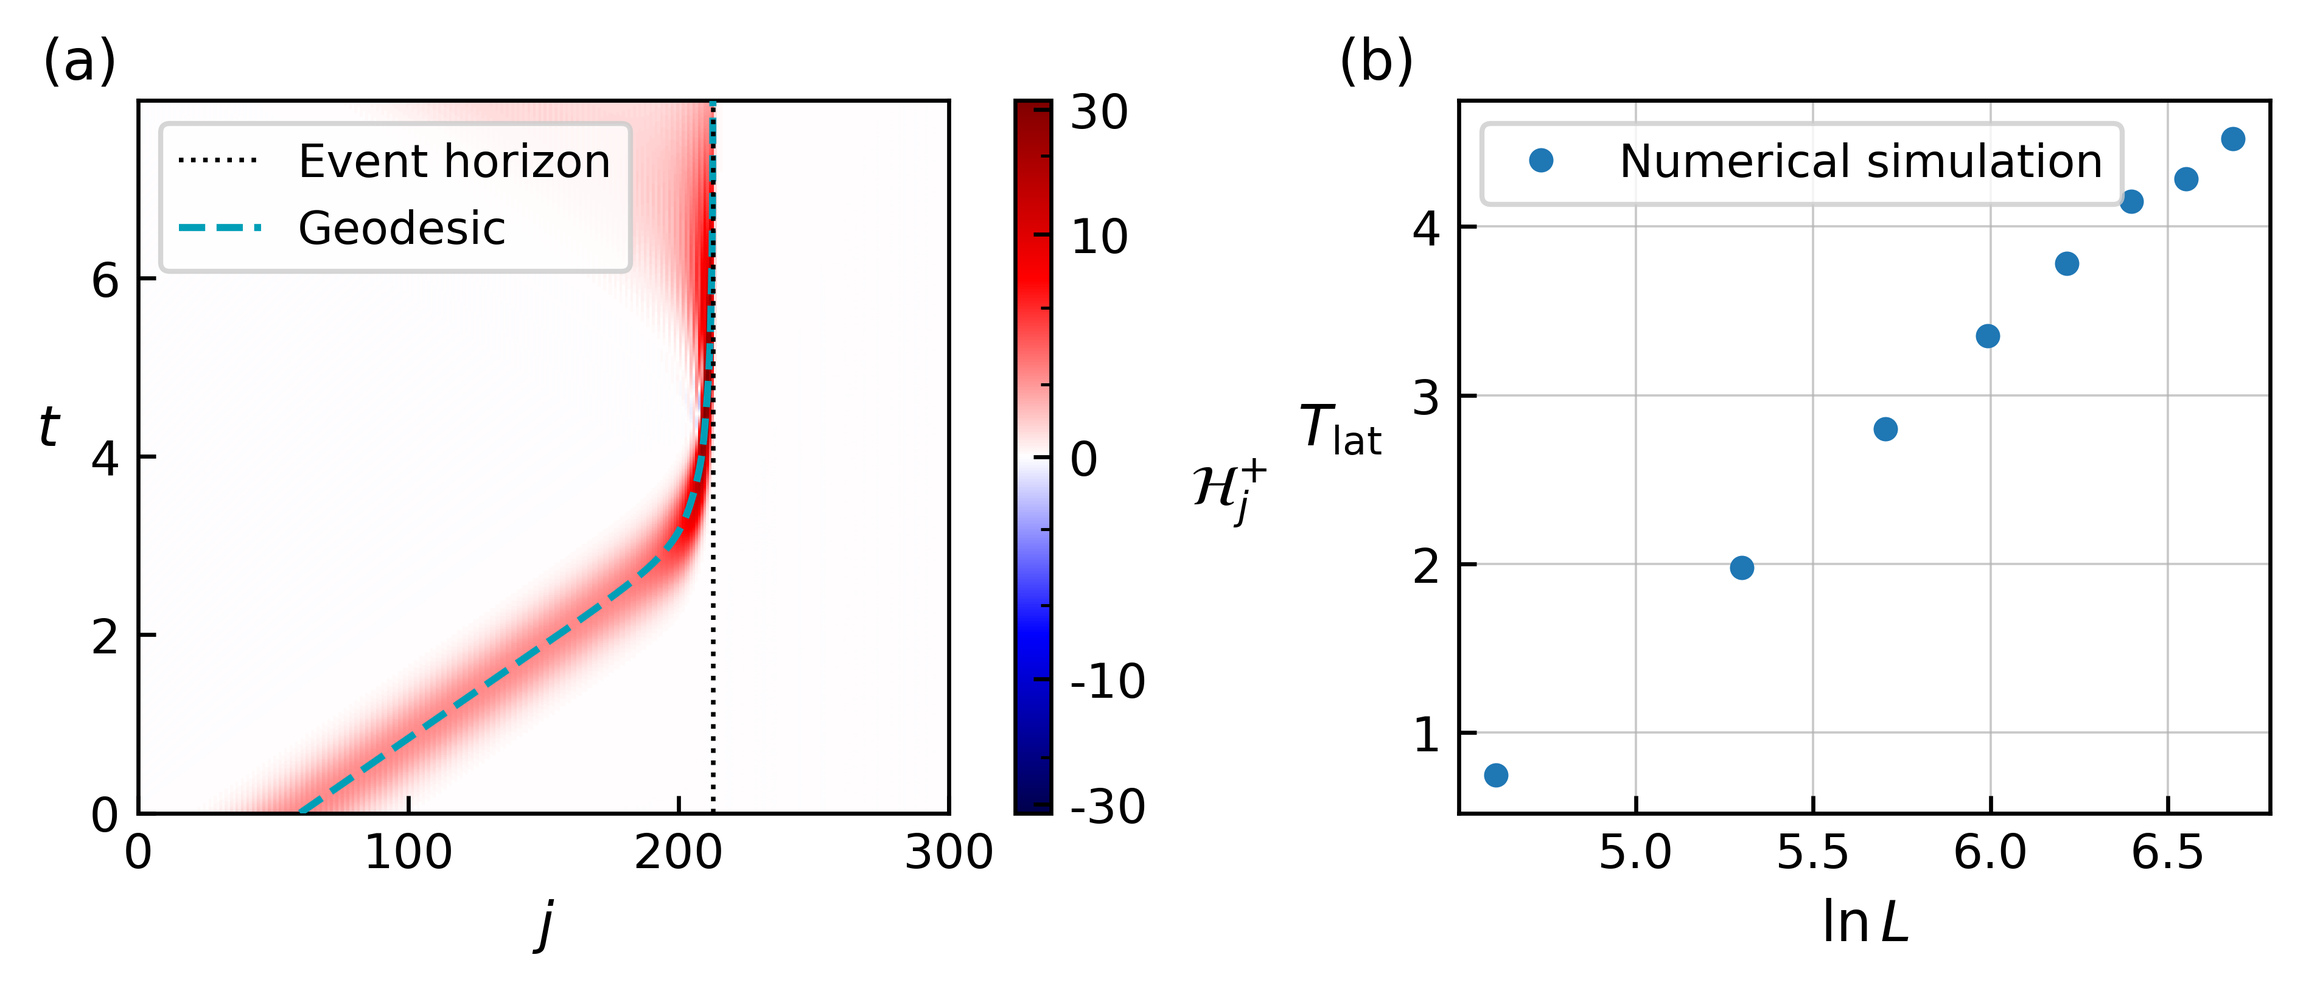
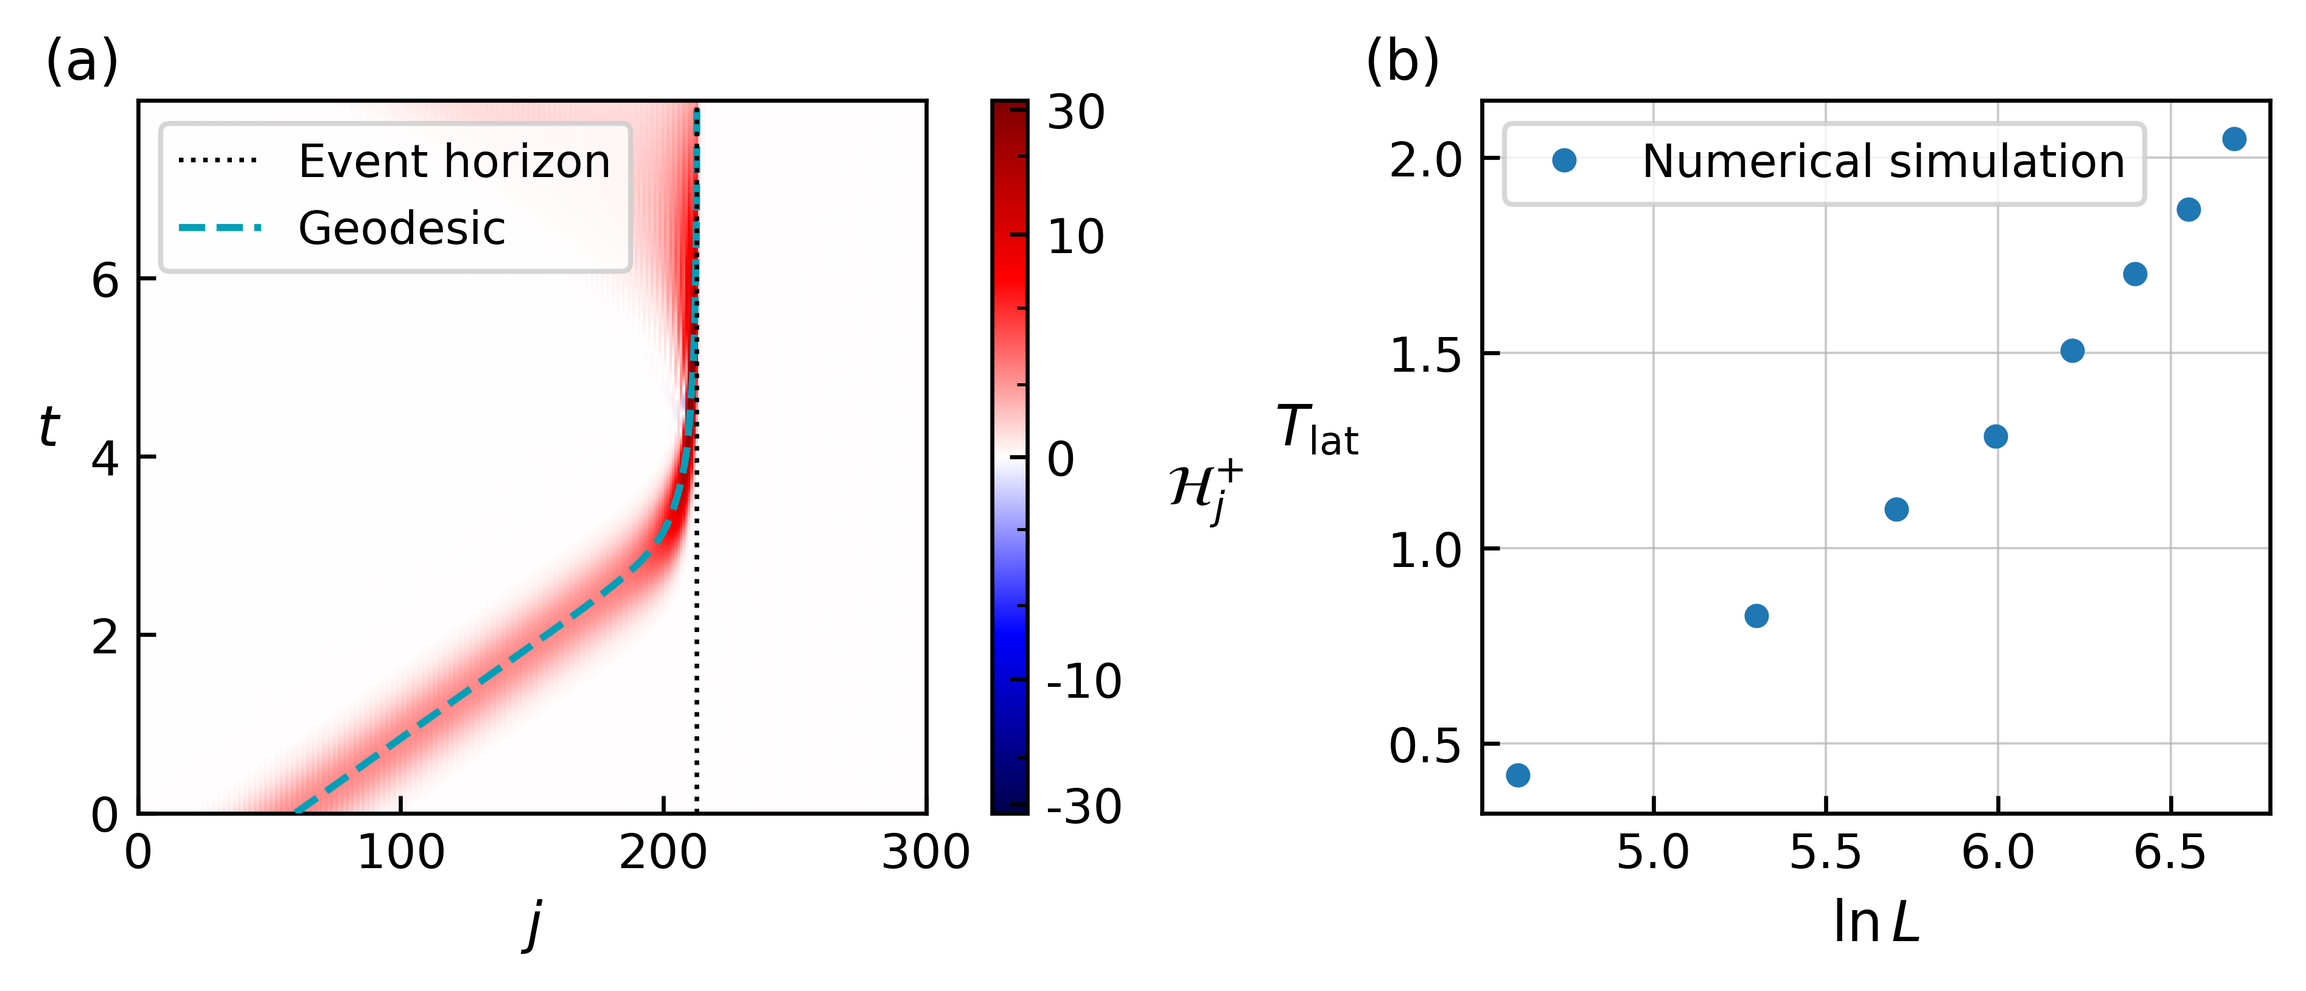
paper: recompute Fig. 6 scaling from manuscript conditions

diff --git a/paper_figures/measure_fig6b_scaling.py b/paper_figures/measure_fig6b_scaling.py
@@ -1,12 +1,4 @@
-"""Diagnostic measurement of Fig. 6(b) stagnation-time scaling.
-
-This is the calculation-based counterpart to ``make_fig6b_scaling.py``, which
-plots the digitized manuscript points used for the paper figure.  This script
-instead recomputes an operational ``T_lat`` from newly generated lattice output,
-so its ``FIG6b_measured_*`` files are diagnostic checks rather than manuscript
-reproduction figures.  The default run list is capped at L=500 to avoid the
-expensive L=800 calculation.
-"""
+"""Measure Fig. 6(b) stagnation-time scaling from lattice simulations."""
 
 from __future__ import annotations
 
@@ -72,7 +64,7 @@ def build_config(L: int) -> dict:
         "surface_gravity_beta": False,
         "beta_amplitude": 0.6,
         "beta_width": 1.0,
-        "beta_center_fraction": 0.7,
+        "beta_center_fraction": 2 / 3,
         "j0_fraction": 0.2,
         "sigma_fraction": 0.05,
         "t_i": 0.0,
@@ -91,27 +83,74 @@ def build_config(L: int) -> dict:
 def run_one(L: int, *, rerun: bool) -> dict:
     config = build_config(L)
     out_dir = Path(config["output_dir"])
-    summary_path = out_dir / "summary.json"
+    summary_path = out_dir / "measurement_summary.json"
     if summary_path.exists() and not rerun:
         with summary_path.open() as f:
             summary = json.load(f)
-        print(f"[fig6b-measure] using cached L={L}: T_lat={summary.get('stagnation_time')}")
+        print(f"[fig6b-measure] using cached L={L}: T_lat={summary.get('T_lat')}")
         return summary
 
-    from config import ANIMATION_CONFIGS, DENSITY_PLOT_CONFIGS
-    from simulation import configure, run_simulation
-
-    print(
-        "[fig6b-measure] running "
-        f"L={L}, dt={config['dt']:.6g}, steps={(config['t_f'] - config['t_i']) / config['dt']:.0f}"
-    )
-    configure(config, DENSITY_PLOT_CONFIGS, ANIMATION_CONFIGS)
-    run_simulation()
-    with summary_path.open() as f:
-        summary = json.load(f)
-    print(f"[fig6b-measure] finished L={L}: T_lat={summary.get('stagnation_time')}")
+    print(f"[fig6b-measure] running lightweight L={L}, steps={len(config['times'])}")
+    times, values = compute_h_p_profiles(config)
+    summary = measure_profiles(L, times, values)
+    out_dir.mkdir(parents=True, exist_ok=True)
+    with summary_path.open("w") as f:
+        json.dump(summary, f, indent=2)
+    print(f"[fig6b-measure] finished L={L}: T_lat={summary['T_lat']:.6g}")
     gc.collect()
     return summary
+
+
+def compute_h_p_profiles(config: dict) -> tuple[np.ndarray, np.ndarray]:
+    """Evaluate the vacuum-subtracted H_+ profile without storing local matrices."""
+    from config import ANIMATION_CONFIGS, DENSITY_PLOT_CONFIGS
+    import simulation
+
+    simulation.configure(config, DENSITY_PLOT_CONFIGS, ANIMATION_CONFIGS)
+    L = int(config["L"])
+    epsilon = float(config["epsilon"])
+    params = simulation.PARAMS
+
+    h_bdg = simulation.build_bdg_matrix(params)
+    eigenvalues, eigenvectors = simulation.diagonalize_bdg_matrix(h_bdg, L)
+    eigenvectors = simulation.enforce_particle_hole_symmetry(eigenvectors, L)
+    psi0, _ = simulation.build_initial_state(
+        L,
+        eigenvectors,
+        config["j0"],
+        config["sigma"],
+        config["PBC"],
+        config["initial_direction_sign"],
+    )
+
+    times = np.asarray(config["times"], dtype=float)
+    amplitudes = np.exp(-1j * times[:, None] * eigenvalues[None, :L]) * psi0[:, 0][None, :]
+    particle = amplitudes @ eigenvectors[:L, :L].T
+    hole_bra = amplitudes.conj() @ eigenvectors[:L, L:].T
+
+    pair = np.zeros((len(times), L), dtype=complex)
+    hopping = np.zeros_like(pair)
+    pair[:, : L - 1] = (
+        hole_bra[:, 1:] * particle[:, :-1]
+        - hole_bra[:, :-1] * particle[:, 1:]
+    )
+    hopping[:, : L - 1] = (
+        particle[:, 1:].conj() * particle[:, :-1]
+        - hole_bra[:, :-1] * hole_bra[:, 1:].conj()
+    )
+
+    core = -1j * pair - hopping + hopping.conj() - 1j * pair.conj()
+    beta_right = np.asarray(
+        [simulation.beta_for_params(b + 0.5, params) for b in range(L)],
+        dtype=float,
+    )
+    core_left = np.roll(core, 1, axis=1)
+    beta_left = np.roll(beta_right, 1)
+    values = -1j / (8 * epsilon**2) * (
+        (1 + beta_left[None, :]) * core_left
+        + (1 + beta_right[None, :]) * core
+    )
+    return times, np.real_if_close(values, tol=1000).real
 
 
 def _load_existing_rows() -> dict[int, list[float]]:
@@ -150,7 +189,7 @@ def write_results(summaries: list[dict]) -> Path:
     merged_rows = _load_existing_rows()
     rows = []
     for item in summaries:
-        measured = postprocess_run(int(item["L"]))
+        measured = item if "T_lat" in item else postprocess_run(int(item["L"]))
         row = [
             item["L"],
             np.log(float(item["L"])),
@@ -194,6 +233,29 @@ def beta_second_derivative(x: np.ndarray) -> np.ndarray:
     return -2.0 * WH_A * WH_B**2 * sech2 * np.tanh(u)
 
 
+def central_curvature_boundary() -> float:
+    """Return the left boundary of the central |beta''| < threshold region."""
+    lo = WH_X0 - 1.0 / WH_B
+    hi = WH_X0
+    for _ in range(80):
+        mid = 0.5 * (lo + hi)
+        if abs(float(beta_second_derivative(np.asarray(mid)))) < CURVATURE_THRESHOLD:
+            hi = mid
+        else:
+            lo = mid
+    return 0.5 * (lo + hi)
+
+
+def interpolated_crossing_time(times: np.ndarray, positions: np.ndarray, boundary: float) -> float:
+    """Interpolate the first rightward crossing of a spatial boundary."""
+    for idx in range(1, len(times)):
+        x0, x1 = float(positions[idx - 1]), float(positions[idx])
+        if x0 < boundary <= x1:
+            fraction = (boundary - x0) / (x1 - x0)
+            return float(times[idx - 1] + fraction * (times[idx] - times[idx - 1]))
+    raise RuntimeError(f"wave-packet mean never crosses x={boundary:.8g}")
+
+
 def postprocess_run(L: int) -> dict:
     csv = RUN_ROOT / f"L{int(L)}" / "H_p_val.csv"
     if not csv.exists():
@@ -202,6 +264,11 @@ def postprocess_run(L: int) -> dict:
     raw = np.loadtxt(csv, delimiter=",", skiprows=1, dtype=complex)
     times = np.real(raw[:, 0])
     values = np.real(raw[:, 1:])
+    return measure_profiles(L, times, values)
+
+
+def measure_profiles(L: int, times: np.ndarray, values: np.ndarray) -> dict:
+    """Measure t_in, t_min, and T_lat from an H_+ profile time series."""
     weights = np.abs(values)
     sites = np.arange(int(L), dtype=float)
     norm = weights.sum(axis=1)
@@ -215,24 +282,12 @@ def postprocess_run(L: int) -> dict:
     xbar = mean_j * ELL_DEFAULT / float(L)
     curvature = np.abs(beta_second_derivative(xbar))
 
-    in_compression = curvature > CURVATURE_THRESHOLD
-    if not np.any(in_compression):
+    entered_compression = curvature >= CURVATURE_THRESHOLD
+    if not np.any(entered_compression):
         raise RuntimeError(f"|beta''(xbar)| never exceeds {CURVATURE_THRESHOLD} for L={L}")
-    t_in_idx = int(np.argmax(in_compression))
-    t_in = float(times[t_in_idx])
-
-    after_drop_idx = np.nan
-    t_in_after_drop = np.nan
-    T_after_drop = np.nan
-    seen_compression = False
-    for idx, active in enumerate(in_compression):
-        if active:
-            seen_compression = True
-        elif seen_compression:
-            after_drop_idx = idx
-            t_in_after_drop = float(times[idx])
-            T_after_drop = t_min - t_in_after_drop
-            break
+    boundary = central_curvature_boundary()
+    t_in = interpolated_crossing_time(times, xbar, boundary)
+    t_in_idx = int(np.searchsorted(times, t_in, side="left"))
 
     return {
         "L": float(L),
@@ -240,9 +295,9 @@ def postprocess_run(L: int) -> dict:
         "t_in": t_in,
         "t_min": t_min,
         "H_p_sigma_min": float(sigma_delta[t_min_idx]),
-        "t_in_after_drop": t_in_after_drop,
-        "T_lat_after_drop": T_after_drop,
-        "after_drop_idx": after_drop_idx,
+        "t_in_after_drop": t_in,
+        "T_lat_after_drop": t_min - t_in,
+        "after_drop_idx": float(t_in_idx),
     }
 
 
@@ -266,7 +321,7 @@ def draw_measured_panel(ax, path: Path = DATA_PATH):
         raise RuntimeError(f"no finite measured Fig. 6(b) points in {path}")
     ax.plot(log_l, t_lat, "o", ms=3.8, color="#1f77b4", label="Numerical simulation")
     ax.set_xlabel(r"$\ln L$")
-    ax.set_ylabel(r"$T$", rotation=0, labelpad=10)
+    ax.set_ylabel(r"$T_{\mathrm{lat}}$", rotation=0, labelpad=14)
     ax.grid(True, color="0.70", lw=0.45, alpha=0.7)
     ax.legend(loc="upper left", frameon=True, handlelength=1.8, borderpad=0.4)
     ax.text(-0.15, 1.03, "(b)", transform=ax.transAxes, fontsize=10)
@@ -332,16 +387,11 @@ def parse_l_values(raw: str | None, max_l: int) -> list[int]:
 
 def main(argv: list[str] | None = None) -> None:
     parser = argparse.ArgumentParser(description=__doc__)
-    parser.add_argument("--max-L", type=int, default=500)
+    parser.add_argument("--max-L", type=int, default=800)
     parser.add_argument("--Ls", help="Comma-separated L values. Defaults to 100,200,300,400,500.")
     parser.add_argument("--rerun", action="store_true", help="Recompute even if cached summaries exist.")
     parser.add_argument("--plot-only", action="store_true", help="Only redraw figures from the measured CSV.")
     args = parser.parse_args(argv)
-    print(
-        "[fig6b-measure] diagnostic mode: this does not reproduce the manuscript "
-        "FIG6(b). Use `python paper_figures/reproduce_panel.py FIG6b` for the paper figure."
-    )
-
     if not args.plot_only:
         L_values = parse_l_values(args.Ls, args.max_L)
         if not L_values:

diff --git a/paper/main_revised.tex b/paper/main_revised.tex
@@ -964,7 +964,7 @@ The initial state was chosen with $j_0=150$, and the standard deviation was set 
 
 \begin{figure*}[t]
 \includegraphics[width=\linewidth]{figure/p=1_BH.png}
-\caption{Wave packet dynamics for the black-hole profile with $p=1$. System parameters are the same as in Fig.~\ref{fig:bh_p0}: in (a,b), $x_0=2\ell/3$ and $j_h\approx213$; in (c,d), $x_0=\ell/3$ and $j_h\approx113$. (a) Packet initialized outside the horizon with ingoing group velocity ($j_0=60$, $\sigma=0.05L$). (b) Packet initialized outside the horizon with outgoing group velocity ($j_0=120$, $\sigma=0.05L$). (c) Packet initialized inside the horizon with a right-moving initial spinor ($j_0=150$, $\sigma=0.05L$). (d) Packet initialized inside the horizon with a left-moving initial spinor ($j_0=150$, $\sigma=0.05L$). Black dotted lines indicate the event horizon, and cyan curves indicate the corresponding null geodesics $dx/dt=\beta(x)\pm1$. Interior oscillations in (c,d) are more pronounced than in the $p=0$ case owing to the stronger excitation of doubler modes, as confirmed by the $k$-space analysis of Fig.~\ref{fig:doubler_fft}.}
+\caption{Wave packet dynamics for the black-hole profile with $p=1$. System parameters are the same as in Fig.~\ref{fig:bh_p0}: in (a,b), $x_0=2\ell/3$ and $j_h\approx213$; in (c,d), $x_0=\ell/3$ and $j_h\approx113$. (a) Packet initialized outside the horizon with ingoing group velocity ($j_0=60$, $\sigma=0.05L$). A symmetric asinh normalization with linear width $\mathcal{H}_0=3$ is used for the color scale in (a) to enhance weak-amplitude features while preserving the sign of $\mathcal{H}_j^+$. (b) Packet initialized outside the horizon with outgoing group velocity ($j_0=120$, $\sigma=0.05L$). (c) Packet initialized inside the horizon with a right-moving initial spinor ($j_0=150$, $\sigma=0.05L$). (d) Packet initialized inside the horizon with a left-moving initial spinor ($j_0=150$, $\sigma=0.05L$). Black dotted lines indicate the event horizon, and cyan curves indicate the corresponding null geodesics $dx/dt=\beta(x)\pm1$. Interior oscillations in (c,d) are more pronounced than in the $p=0$ case owing to the stronger excitation of doubler modes, as confirmed by the $k$-space analysis of Fig.~\ref{fig:doubler_fft}.}
 \label{fig:bh_p1}
 \end{figure*}
 Next, we investigate the motion of the wave packet for the case $p=1$.
@@ -1023,7 +1023,7 @@ For the white-hole dynamics, we use $A=C=-0.6$, $B=3$, $x_0=2\ell/3$ (white-hole
 \begin{figure*}[tbp]
 \centering
 \includegraphics[width=0.82\textwidth]{figure/WH_p=0.png}
-\caption{Wave packet dynamics in the white-hole geometry for $p=0$. (a) Space-time diagram of $\mathcal{H}_j^+$ for $L=300$, $j_0=0.2L$, and $\sigma=0.05L$, with $\beta$ profile parameters $A=C=-0.6$, $B=3$, and $x_0=2\ell/3$ (white-hole horizon at $j_h\approx213$). The wave packet is compressed toward the white-hole horizon (black dotted line) and eventually reflected due to finite lattice resolution. (b) Lattice stagnation time $T_{\mathrm{lat}}$ versus $\ln L$ for various system sizes, using $A=C=-0.6$, $B=3$, $x_0=2\ell/3$, $j_0=0.2L$, and $\sigma=0.05L$. Blue dots show numerical simulation results; their approximately linear dependence on $\ln L$ is consistent with the logarithmic scaling of Eq.~\eqref{eq:T_logL}.}
+\caption{Wave packet dynamics in the white-hole geometry for $p=0$. (a) Space-time diagram of $\mathcal{H}_j^+$ for $L=300$, $j_0=0.2L$, and $\sigma=0.05L$, with $\beta$ profile parameters $A=C=-0.6$, $B=3$, and $x_0=2\ell/3$ (white-hole horizon at $j_h\approx213$). A symmetric asinh normalization with linear width $\mathcal{H}_0=3$ is used for the color scale to enhance weak-amplitude features while preserving the sign of $\mathcal{H}_j^+$. The wave packet is compressed toward the white-hole horizon (black dotted line) and eventually reflected due to finite lattice resolution. (b) Lattice stagnation time $T_{\mathrm{lat}}$ versus $\ln L$ for various system sizes, using $A=C=-0.6$, $B=3$, $x_0=2\ell/3$, $j_0=0.2L$, and $\sigma=0.05L$. Blue dots show numerical simulation results; their approximately linear dependence on $\ln L$ is consistent with the logarithmic scaling of Eq.~\eqref{eq:T_logL}.}
 \label{fig:wh_p0}
 \end{figure*}
 For $p = 0$, as shown in Fig.~\ref{fig:wh_p0}, the wave packet is initially compressed at the white-hole horizon, yielding behavior consistent with the ideal analytical expectation. However, after a certain time, the wave packet collapses and is reflected. This behavior is attributed to a finite-size effect arising when the wave-packet standard deviation becomes smaller than the lattice spacing.
@@ -1050,7 +1050,7 @@ Therefore, we conclude that the reflection of the wave packet is caused by a fin
 \begin{figure*}[tbp]
 \centering
 \includegraphics[width=0.88\textwidth]{figure/WH_p=1.png}
-\caption{White-hole dynamics for $p=1$ ($L=300$, $j_0=0.2L$, $\sigma=0.05L$, with the same $\beta$ profile as Fig.~\ref{fig:wh_p0}(a), $A=C=-0.6$, $B=3$, $x_0=2\ell/3$, and $j_h\approx213$). (a) Space-time diagram of $\mathcal{H}_j^+$. (b) Space-time diagram of $\mathcal{H}_j^-$. (c) Space-time diagram of $\mathcal{H}_j^\pm$. Unlike the $p=0$ case, the coupling between the right- and left-moving components allows partial transmission across the white-hole horizon (black dotted line).}
+\caption{White-hole dynamics for $p=1$ ($L=300$, $j_0=0.2L$, $\sigma=0.05L$, with the same $\beta$ profile as Fig.~\ref{fig:wh_p0}(a), $A=C=-0.6$, $B=3$, $x_0=2\ell/3$, and $j_h\approx213$). (a) Space-time diagram of $\mathcal{H}_j^+$. (b) Space-time diagram of $\mathcal{H}_j^-$. (c) Space-time diagram of the interaction contribution $\mathcal{H}_j^{\mathrm{int}}$. Unlike the $p=0$ case, the coupling between the right- and left-moving components allows partial transmission across the white-hole horizon (black dotted line).}
 \label{fig:wh_p1}
 \end{figure*}
 For $p=1$, the wave-packet dynamics differs from the $p=0$ case.

diff --git a/tests/test_paper_reproduction.py b/tests/test_paper_reproduction.py
@@ -7,7 +7,13 @@ from paper_figures.make_beta12_dispersion import doubler_k
 from paper_figures.make_doubler_fft import doubler_k as fig4_doubler_k
 from paper_figures.make_fig6b_scaling import DEFAULT_MAX_L, load_scaling_data
 from paper_figures.make_surface_gravity import lattice_width_to_physical
-from paper_figures.measure_fig6b_scaling import load_results as load_measured_fig6b_results
+from paper_figures.measure_fig6b_scaling import (
+    CURVATURE_THRESHOLD,
+    WH_X0,
+    beta_second_derivative,
+    central_curvature_boundary,
+    load_results as load_measured_fig6b_results,
+)
 from paper_figures.reproduce_panel import (
     FIGURE_GROUPS,
     PANEL_SPECS,
@@ -151,28 +157,34 @@ class PaperReproductionTests(unittest.TestCase):
             "fig6a": r"$\mathcal{H}_{j}^{+}$",
             "fig7a": r"$\mathcal{H}_{j}^{+}$",
             "fig7b": r"$\mathcal{H}_{j}^{-}$",
-            "fig7c": r"$\mathcal{H}_{j}^{\pm}$",
+            "fig7c": r"$\mathcal{H}_{j}^{\mathrm{int}}$",
         }
         for key, label in expected.items():
             with self.subTest(panel=key):
                 self.assertEqual(PANEL_SPECS[key].label, label)
 
-    def test_fig6b_scaling_data_uses_digitized_manuscript_points(self):
+    def test_fig6b_scaling_data_uses_measured_points(self):
         Ls, times, _ = load_scaling_data()
         self.assertEqual(Ls.tolist(), [100, 200, 300, 400, 500, 600, 700, 800])
-        self.assertAlmostEqual(float(times[0]), 0.75, places=2)
-        self.assertAlmostEqual(float(times[-1]), 4.52, places=2)
         self.assertTrue(np.all(np.isfinite(times)))
 
-    def test_fig6b_default_plot_includes_digitized_l800(self):
+    def test_fig6b_default_plot_includes_measured_l800(self):
         Ls, _, _ = load_scaling_data(max_l=DEFAULT_MAX_L)
         self.assertEqual(float(np.max(Ls)), 800.0)
 
-    def test_fig6b_measured_data_tracks_server_l800_points(self):
+    def test_fig6b_measured_data_are_finite(self):
         Ls, _, times = load_measured_fig6b_results()
         self.assertEqual(Ls.tolist(), [100, 200, 300, 400, 500, 600, 700, 800])
-        self.assertAlmostEqual(float(times[-3]), 3.24)
-        self.assertAlmostEqual(float(times[-1]), 3.5025)
+        self.assertTrue(np.all(np.isfinite(times)))
+
+    def test_fig6b_curvature_boundary_matches_manuscript_threshold(self):
+        boundary = central_curvature_boundary()
+        self.assertLess(boundary, WH_X0)
+        self.assertAlmostEqual(
+            abs(float(beta_second_derivative(np.asarray(boundary)))),
+            CURVATURE_THRESHOLD,
+            places=10,
+        )
 
     def test_surface_gravity_width_uses_ell_over_L_once(self):
         lattice_width = np.array([0.0, 1.0, 2.5])

diff --git a/paper_figures/make_fig6b_scaling.py b/paper_figures/make_fig6b_scaling.py
@@ -1,4 +1,4 @@
-"""Plot Fig. 6(b) stagnation-time scaling from digitized manuscript data."""
+"""Plot Fig. 6(b) stagnation-time scaling from measured lattice data."""
 
 from __future__ import annotations
 
@@ -15,7 +15,7 @@ except ImportError:
     from style import configure_figure5_style
 
 
-DATA = REPO / "paper_figures" / "reference_data" / "T_lat_digitized.csv"
+DATA = REPO / "paper_figures" / "measured_data" / "T_lat_measured_L800.csv"
 OUT_DIR = REPO / "paper_figures" / "generated" / "panels" / "FIG6"
 DEFAULT_MAX_L: float | None = None
 
@@ -76,7 +76,7 @@ def main(argv: list[str] | None = None) -> None:
         dest="max_l",
         type=float,
         default=0.0,
-        help="Largest stored L value to plot. Use 0 to include all digitized data.",
+        help="Largest stored L value to plot. Use 0 to include all measured data.",
     )
     args = parser.parse_args([] if argv is None else argv)
     max_l = None if args.max_l == 0 else args.max_l
@@ -109,7 +109,7 @@ def main(argv: list[str] | None = None) -> None:
     )
     limit_note = "all stored L" if max_l is None else f"L <= {max_l:g}"
     print(f"[paper] saved FIG6(b) -> {out_base.with_suffix('.png')} ({limit_note})")
-    print(f"[paper] FIG6(b) plotted {len(Ls)} digitized points")
+    print(f"[paper] FIG6(b) plotted {len(Ls)} measured points")
 
 
 if __name__ == "__main__":

diff --git a/paper_figures/reproduce_panel.py b/paper_figures/reproduce_panel.py
@@ -286,7 +286,7 @@ PANEL_SPECS: dict[str, PanelSpec] = {
     ),
     "fig7c": _wh_panel(
         "FIG7c", "FIG7", "c", p=1, observable="H_pm",
-        label=r"$\mathcal{H}_{j}^{\pm}$", t_plot=8.0,
+        label=r"$\mathcal{H}_{j}^{\mathrm{int}}$", t_plot=8.0,
         title=r"FIG7(c) $p=1$, $\mathcal{H}^{\mathrm{int}}$",
         run_id="FIG7",
     ),
